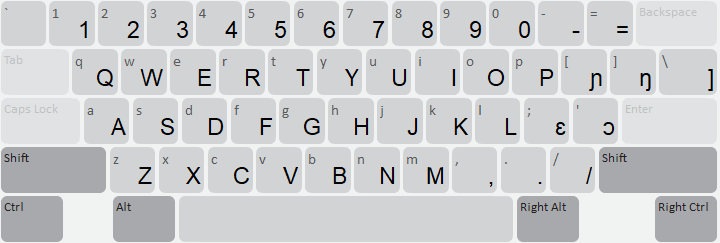
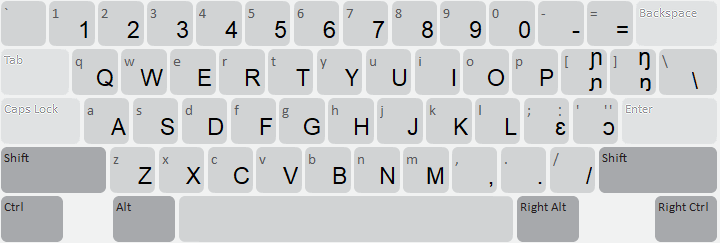
[sil_mali_qwerty] Changes per request of author

diff --git a/release/sil/sil_mali_qwerty/source/help/sil_mali_qwerty.php b/release/sil/sil_mali_qwerty/source/help/sil_mali_qwerty.php
@@ -17,3 +17,9 @@
 <img src='mali_all.png' alt='Keyboard Layout'>
 <p><b>Clavier à l’écran</b></p>
 <img src='mali_shift.png' alt='Keyboard Layout'>
+
+<h2>Disposition du clavier du téléphone / Phone keyboard layout</h2>
+
+<div id='osk-phone' data-states='default shift numeric symbol'>
+</div>
+
